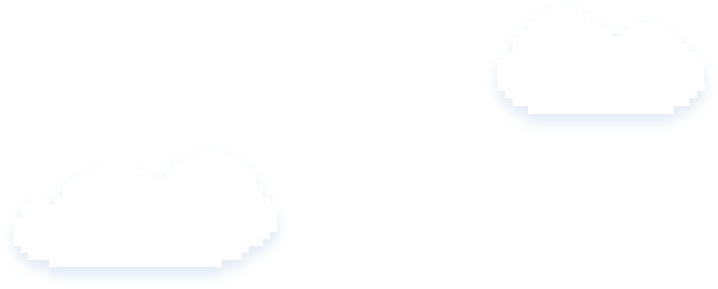
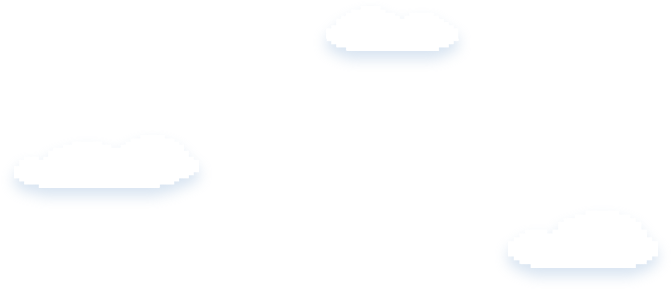
added parallax

diff --git a/main.scss b/main.scss
@@ -36,23 +36,51 @@ div.container {
     max-width: 780px;
 }
 
-@keyframes animatedBackground {
-	from { background-position: 15% 85%; }
-	to { background-position: 100% 85%; }
-}
-
 body {
     width: 100%; 
-    height: 768px;
-    background-image: url(icon/cloud1.png);
-
-    background-repeat: repeat-x;
-
-    animation: animatedBackground 70s linear infinite;
-    -ms-animation: animatedBackground 70s linear infinite;
-    -moz-animation: animatedBackground 70s linear infinite;
-    -webkit-animation: animatedBackground 70s linear infinite;
 }
+
+// parallax
+.keyart, .keyart_layer {
+    width: auto;  height: 800px;
+}
+
+#parallax {
+  display: block;
+}
+
+.keyart {
+  position: relative;
+  z-index: 10;
+}
+
+.keyart_layer {
+  background-position: center top;
+  background-size: auto 800px;
+  background-repeat: no-repeat;
+  width: 100%;
+  position: absolute;
+}
+.keyart_layer.parallax {
+ position: absolute;
+}
+  #keyart-0 {
+      background-image: url(img/bg/bg1.png);
+  }
+  #keyart-1 {
+      background-image: url(img/bg/bg2.png);
+  }
+  #keyart-2 {
+      background-image: url(img/bg/bg3.png);
+  }
+  #keyart-3 {
+      background-image: url(img/bg/bg4.png);
+  }
+  #keyart-4 {
+      background-image: url(img/bg/bg5.png);
+  }
+
+// parallax end
 
 header {    
     z-index: 1;
@@ -139,3 +167,4 @@ footer {
     padding-top: 60px;
     text-align: center;
 }
+

diff --git a/main.css b/main.css
@@ -19,20 +19,44 @@ div.container {
   margin: 40px auto;
   max-width: 780px; }
 
-@keyframes animatedBackground {
-  from {
-    background-position: 15% 85%; }
-  to {
-    background-position: 100% 85%; } }
 body {
+  width: 100%; }
+
+.keyart, .keyart_layer {
+  width: auto;
+  height: 800px; }
+
+#parallax {
+  display: block; }
+
+.keyart {
+  position: relative;
+  z-index: 10; }
+
+.keyart_layer {
+  background-position: center top;
+  background-size: auto 800px;
+  background-repeat: no-repeat;
   width: 100%;
-  height: 768px;
-  background-image: url(icon/cloud1.png);
-  background-repeat: repeat-x;
-  animation: animatedBackground 70s linear infinite;
-  -ms-animation: animatedBackground 70s linear infinite;
-  -moz-animation: animatedBackground 70s linear infinite;
-  -webkit-animation: animatedBackground 70s linear infinite; }
+  position: absolute; }
+
+.keyart_layer.parallax {
+  position: absolute; }
+
+#keyart-0 {
+  background-image: url(img/bg/bg1.png); }
+
+#keyart-1 {
+  background-image: url(img/bg/bg2.png); }
+
+#keyart-2 {
+  background-image: url(img/bg/bg3.png); }
+
+#keyart-3 {
+  background-image: url(img/bg/bg4.png); }
+
+#keyart-4 {
+  background-image: url(img/bg/bg5.png); }
 
 header {
   z-index: 1;

diff --git a/index.html b/index.html
@@ -11,6 +11,16 @@
 </head>
 
 <body>
+    <div class="keyart" id="parallax">
+        <div class="keyart_layer parallax" id="keyart-0" data-speed="100"></div>
+        <div class="keyart_layer parallax" id="keyart-1" data-speed="80"></div>
+        <div class="keyart_layer parallax" id="keyart-2" data-speed="40"></div>
+        <div class="keyart_layer parallax" id="keyart-3" data-speed="20"></div>
+        <div class="keyart_layer parallax" id="keyart-4" data-speed="5"></div>
+        <!-- <div class="keyart_layer" id="keyart-scrim"></div> -->
+    </div>
+
+
     <div class="container">
         <header>
             <a href="index.html"><img src="img/Logo/logo.png" alt="Carrie's Logo" class="logo-img"></a>
@@ -68,6 +78,8 @@
             </p>
         </footer>
     </div>
+
+    <script src="js/parallax.js"></script>
 </body>
 
 </html>

diff --git a/js/parallax.js b/js/parallax.js
@@ -1,0 +1,18 @@
+function castParallax() {
+  
+    window.addEventListener('scroll', function() {
+      var top = this.pageYOffset
+  
+      var layers = document.getElementsByClassName('parallax')
+      var layer, speed, yPos
+      for (var i = 0; i < layers.length; i++) {
+        layer = layers[i]
+        speed = layer.getAttribute('data-speed')
+        var yPos = -(top * speed / 100)
+        layer.setAttribute('style', 'transform: translate3d(0px, ' + yPos + 'px, 0px)')
+      }
+    })
+  }
+  
+  document.body.onload = castParallax()
+  
